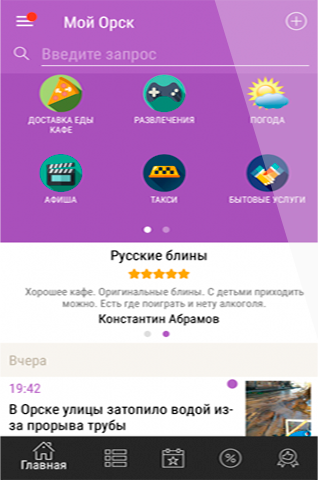
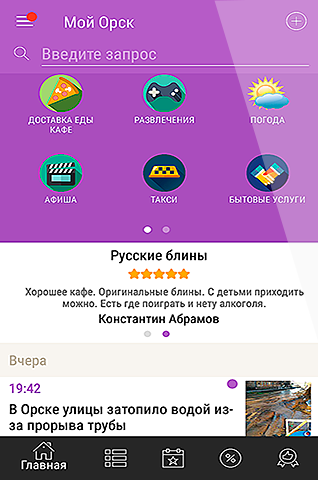
to working with main page

diff --git a/src/styles.css b/src/styles.css
@@ -125,7 +125,7 @@ ul li {
 
 #main nav a:hover {
     text-decoration: none;
-    color:#a05ec0;
+    color:#b059ad;
     border-top: 5px solid #ffffff;
 }
 
@@ -141,7 +141,7 @@ ul li {
     background-size: cover;
     color:#ffffff;
     font-family: 'OpenSansLight';
-    margin-bottom:-70px;
+    margin-bottom:-190px;
 }
 
 #main .android {
@@ -152,6 +152,7 @@ ul li {
     font-family: 'OpenSansLight';
     border: 2px solid #ffffff;
     margin-right: 30px;
+    border-radius: 5px;
 }
 
 #main .apple {
@@ -162,10 +163,12 @@ ul li {
     font-family: 'OpenSansLight';
     border: 2px solid #ffffff;
     margin-right:30px;
+    border-radius: 5px;
 }
 
 #main button:hover {
-    color: #a05ec0;
+    color: #ffffff;
+    background-color:#b059ad;
 }
 
 #main .logo {
@@ -202,7 +205,7 @@ ul li {
 
 /*==============   ДОСТОИНСТВА   =============*/
 #features {
-    padding-top: 80px;
+    padding-top: 180px;
     background-color: #ffffff;
     font-size: 18px;
     font-family: 'OpenSansRegular';
@@ -429,7 +432,7 @@ a {
 }
 
 .news-headlines .selected {
-    color: #0eef78;
+    color: #b059ad;
     font-family:'OpenSansBold';
 }
 
